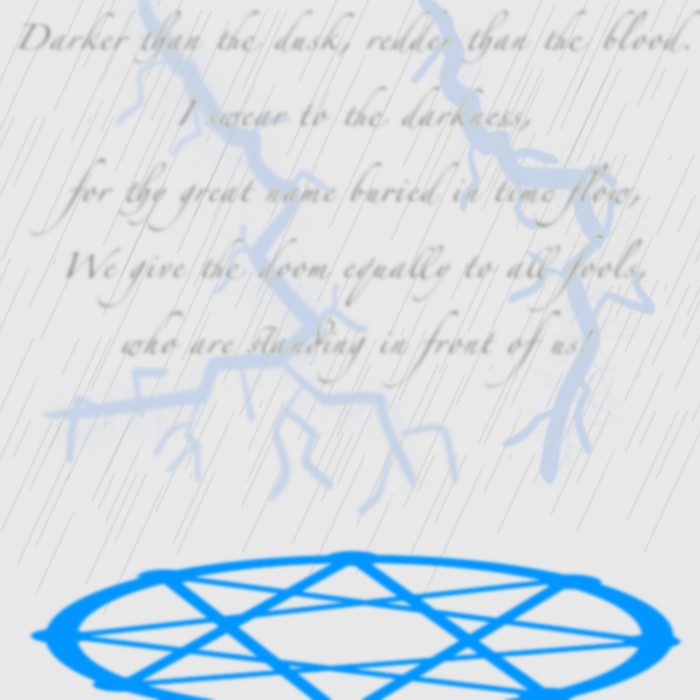
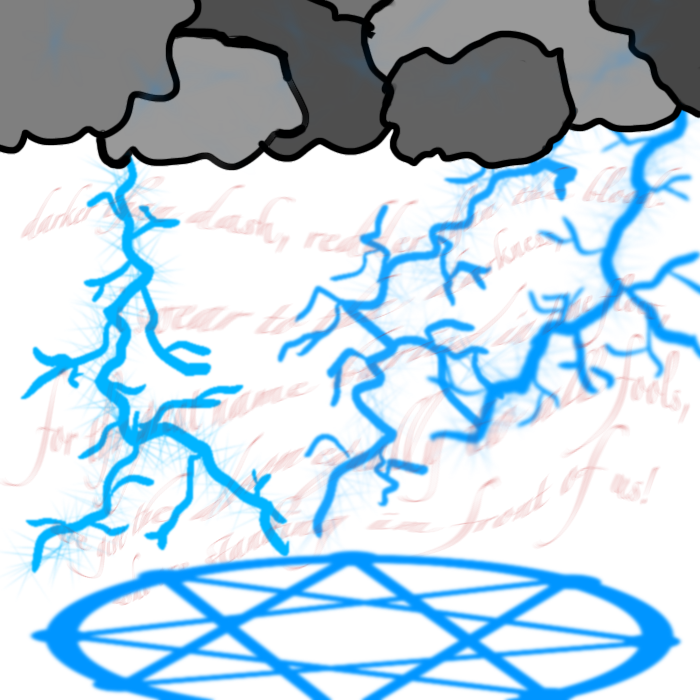
召喚の画像を変更

diff --git a/scripts/mojigao-maker.js b/scripts/mojigao-maker.js
@@ -155,7 +155,8 @@ const koteitrans = {
 const posByKarada = {
   Sunflower: [80, 50],
   Cat_body: [22.5,30],
-  Angel: [40,30]
+  Angel: [40,30],
+  Chimera: [135,50]
 }
 /////体、帽子、背景の、それぞれどれを使うか。
 /** 
@@ -170,16 +171,19 @@ const image_names={
     {name:"Straw_hat",URL:"https://raw.githubusercontent.com/henoheTK/mojigao-maker/master/images/hat/%E9%BA%A6%E3%82%8F%E3%82%89%E5%B8%BD%E5%AD%90.png"},
     {name:"Cat_ear",URL:"https://raw.githubusercontent.com/henoheTK/mojigao-maker/master/images/hat/%E3%83%8D%E3%82%B3%E3%83%9F%E3%83%9F.png"},
     {name:"Angel_ring",URL:"https://raw.githubusercontent.com/henoheTK/mojigao-maker/master/images/hat/%E5%A4%A9%E4%BD%BF%E3%81%AE%E8%BC%AA.png"},
+    {name:"Crown",URL:"https://raw.githubusercontent.com/henoheTK/mojigao-maker/master/images/hat/%E7%8E%8B%E5%86%A0.png"},
   ],
   body:[
     {name:"Sunflower",URL:"https://raw.githubusercontent.com/henoheTK/mojigao-maker/master/images/body/%E3%81%B2%E3%81%BE%E3%82%8F%E3%82%8A.png"},
     {name:"Cat_body",URL:"https://raw.githubusercontent.com/henoheTK/mojigao-maker/master/images/body/%E3%83%8D%E3%82%B3%E4%BD%93.png"},
     {name:"Angel",URL:"https://raw.githubusercontent.com/henoheTK/mojigao-maker/master/images/body/%E5%A4%A9%E4%BD%BF.png"},
+    {name:"Chimera",URL:"https://raw.githubusercontent.com/henoheTK/mojigao-maker/master/images/body/%E3%82%AD%E3%83%A1%E3%83%A9.png"},
   ],
   background:[
     {name:"Sunflower_field",URL:"https://raw.githubusercontent.com/henoheTK/mojigao-maker/master/images/background/%E3%81%B2%E3%81%BE%E3%82%8F%E3%82%8A%E7%95%91.png"},
     {name:"Japanese_style_house",URL:"https://raw.githubusercontent.com/henoheTK/mojigao-maker/master/images/background/%E5%92%8C%E9%A2%A8%E3%81%AE%E5%AE%B6.png"},
     {name:"Halo",URL:"https://raw.githubusercontent.com/henoheTK/mojigao-maker/master/images/background/%E5%BE%8C%E5%85%89.png"},
+    {name:"Summon",URL:"https://raw.githubusercontent.com/henoheTK/mojigao-maker/master/images/background/%E5%8F%AC%E5%96%9A.png"},
   ],
 }
 

diff --git a/scripts/mojigao-maker.html b/scripts/mojigao-maker.html
@@ -29,6 +29,7 @@
                 <option id="mugiwara_button">麦わら帽子</option>
                 <option id="cat-ear_button">ネコミミ</option>
                 <option id="angel-ring_button">天使の輪</option>
+                <option id="crown_button">王冠</option>
               </select>
           </div>
         </div>
@@ -46,6 +47,7 @@
                   <option id="sunflower_button">ひまわり</option>
                   <option id="cat-body_button">ねこ</option>
                   <option id="angel_button">天使</option>
+                  <option id="chimera_button">キメラ</option>
                 </select>
             </div>
           </div>
@@ -63,6 +65,7 @@
                     <option id="sunflower-field_button">ひまわり畑</option>
                     <option id="japanese-style-house_button">和室</option>
                     <option id="holo_button">後光</option>
+                    <option id="summon_button">召喚</option>
                   </select>
               </div>
             </div>
